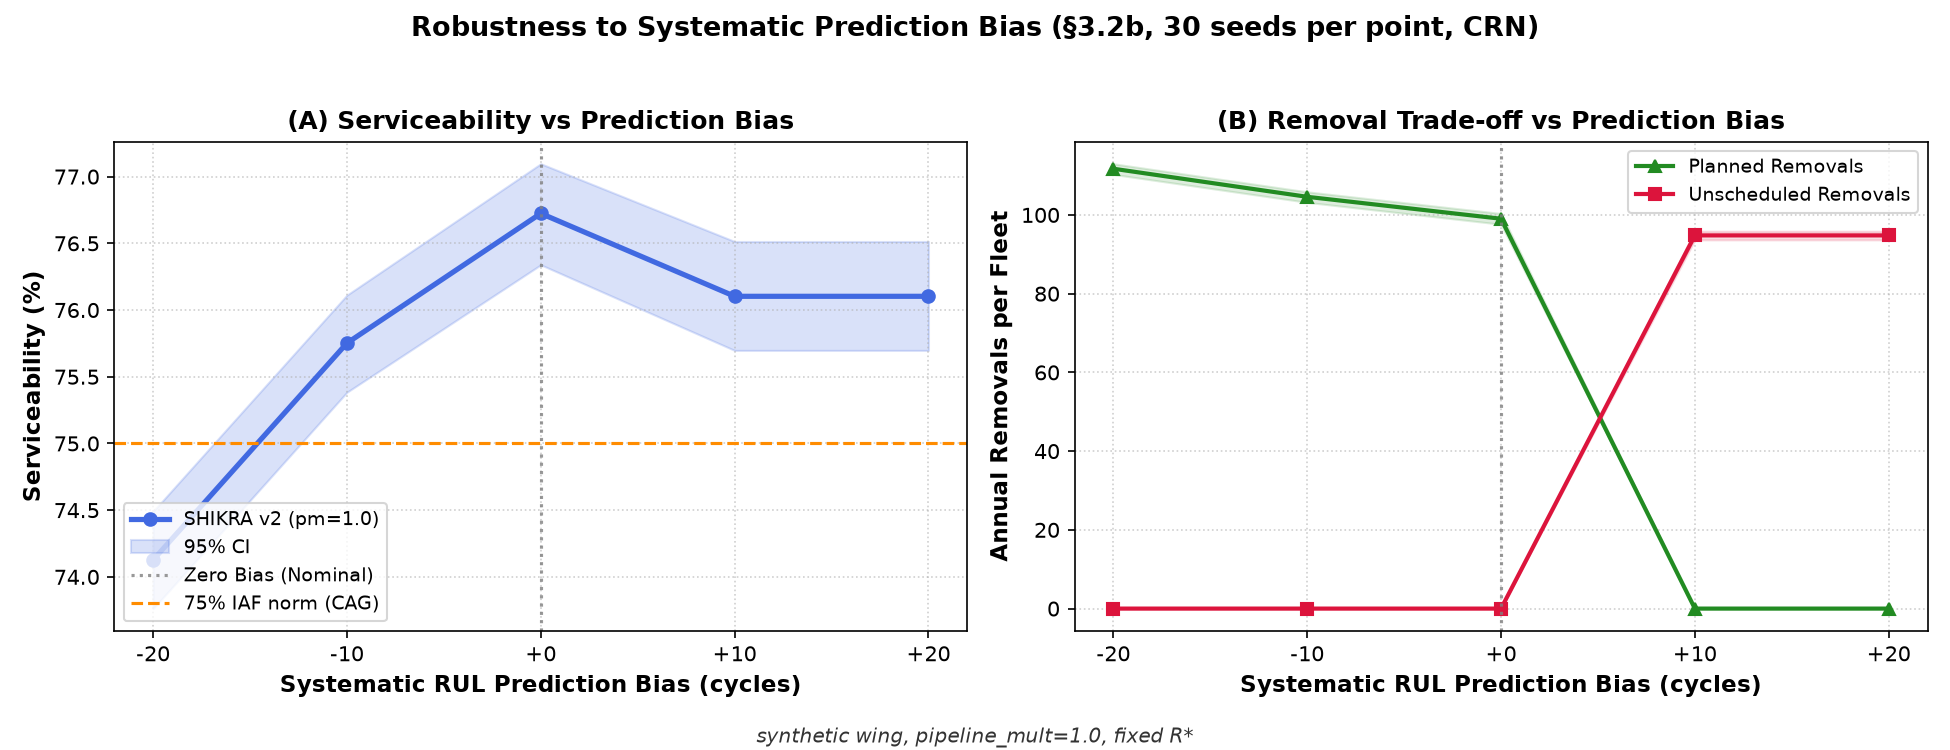
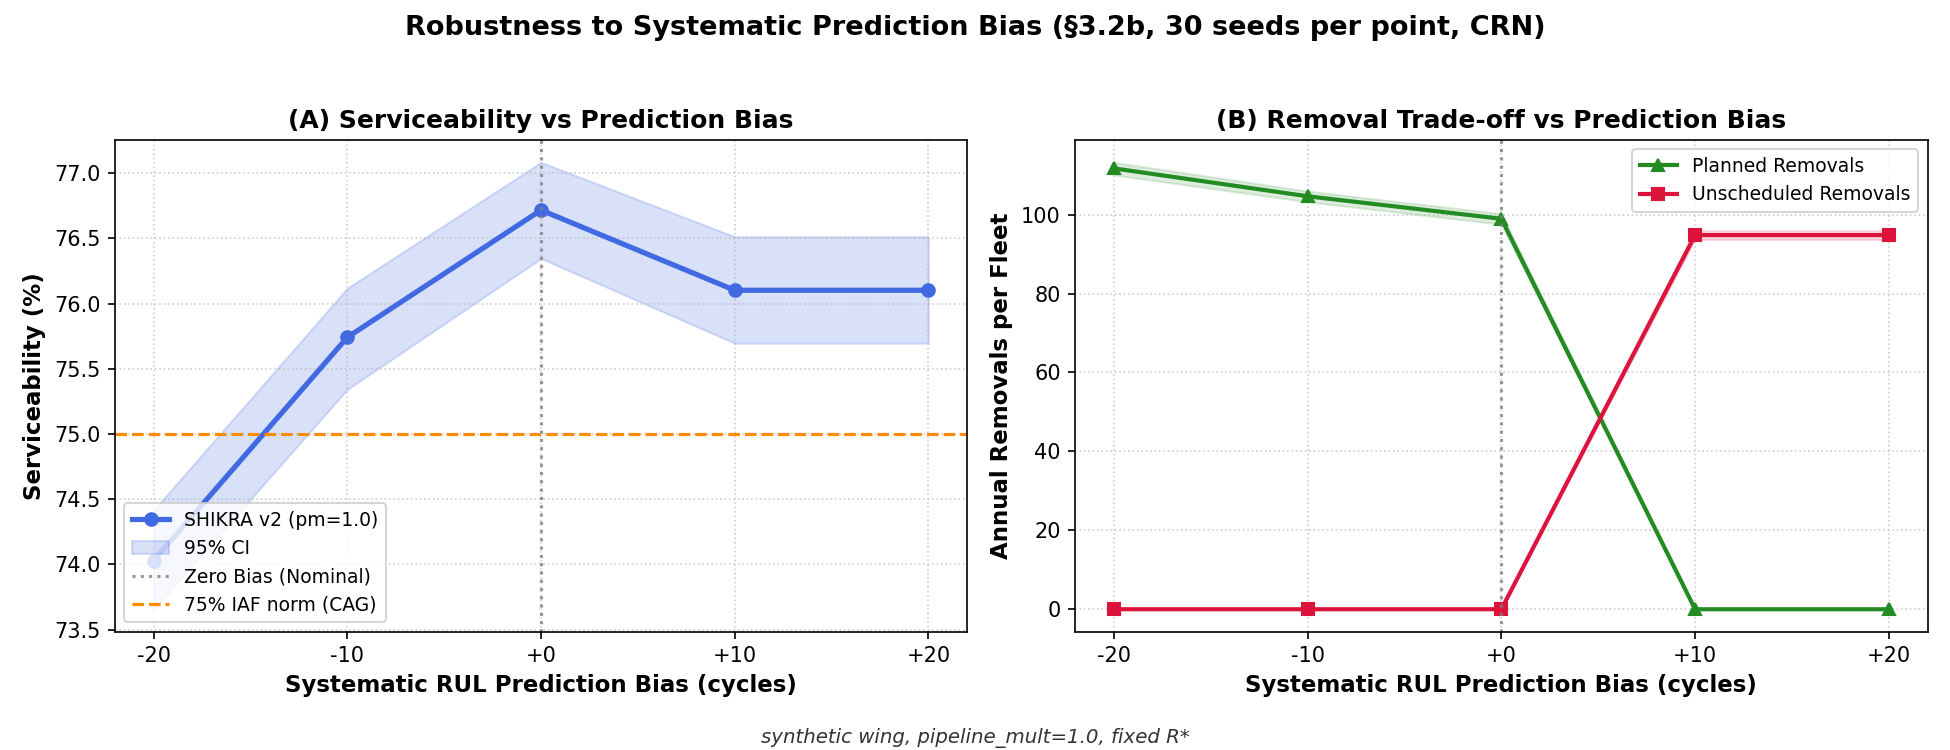
results: regenerate simulation results and documentation from model of record

diff --git a/scripts/cards.py b/scripts/cards.py
@@ -193,6 +193,7 @@ def generate_model_card() -> str:
         "  - The model never accesses `rul_true` during inference, test evaluation, or fleet simulation.",
         f"  - The model is never trained or calibrated on the {n_rep_single} replay engines, which are kept strictly unseen to prevent optimistic bias in simulation.",
         "  - Sensor scaling and cluster centers are fit strictly on training units, with zero leakage from validation, calibration, or test sets.",
+        "- **Model of Record:** model of record re-frozen 17 Oct; previous replay model was not committed and was overwritten by a retrain; all results regenerated from the committed model.",
         "",
     ])
 

diff --git a/MODEL_CARD.md b/MODEL_CARD.md
@@ -57,27 +57,27 @@ Inductive conformal prediction calibrates prediction intervals on held-out calib
 
 | Subset / Split | Nominal Coverage | Calibrated Empirical Coverage | Uncalibrated Empirical Coverage | Mean Interval Width | Sample Size |
 |----------------|------------------|-------------------------------|---------------------------------|---------------------|-------------|
-| FD001 (test) | 80% | 81.0% | 61.0% | 30.94 cycles | 100 |
-| FD001 (test) | 90% | 91.0% | 76.0% | 43.24 cycles | 100 |
-| FD001+FD003 (replay) | 80% | 82.0% | 56.0% | 24.81 cycles | 400 |
-| FD001+FD003 (replay) | 90% | 92.8% | 73.2% | 34.22 cycles | 400 |
-| FD003 (test) | 80% | 79.0% | 57.0% | 30.17 cycles | 100 |
-| FD003 (test) | 90% | 90.0% | 75.0% | 40.79 cycles | 100 |
+| FD001 (test) | 80% | 81.0% | 61.0% | 30.91 cycles | 100 |
+| FD001 (test) | 90% | 90.0% | 76.0% | 42.96 cycles | 100 |
+| FD001+FD003 (replay) | 80% | 81.8% | 56.0% | 24.78 cycles | 400 |
+| FD001+FD003 (replay) | 90% | 92.8% | 73.2% | 33.97 cycles | 400 |
+| FD003 (test) | 80% | 79.0% | 57.0% | 30.14 cycles | 100 |
+| FD003 (test) | 90% | 89.0% | 75.0% | 40.51 cycles | 100 |
 
 ## Known Failure Modes and Robustness Findings
 
 1. **Systematic Prediction Bias Sensitivity (§3.2b):**
-   - **Pessimistic Bias (−10 cycles):** Wastes 1993 cycles of usable engine life across the fleet due to premature removals, while maintaining 0 unscheduled removals.
+   - **Pessimistic Bias (−10 cycles):** Wastes 1978 cycles of usable engine life across the fleet due to premature removals, while maintaining 0 unscheduled removals.
    - **Optimistic Bias (+10 cycles):** Causes severe late removals, raising unscheduled engine removals from 0.0 to 94.8 per fleet-year.
-   - **Zero Bias (Nominal):** Produces 0.0 unscheduled removals with 845 cycles wasted life.
+   - **Zero Bias (Nominal):** Produces 0.0 unscheduled removals with 820 cycles wasted life.
 
 2. **Degraded Prediction Quality (2× Error Impact from Heatmap):**
    - At nominal pipeline speed (`pipeline_mult=1.0`):
      - SHIKRA nominal (quality 1.0): 76.7% serviceability (gain vs reactive: +0.7%).
-     - Poor quality (quality 2.0, 2× error): 55.6% serviceability (loss vs reactive: -20.5%), causing a net availability drop of 21.2 percentage points.
+     - Poor quality (quality 2.0, 2× error): 55.6% serviceability (loss vs reactive: -20.4%), causing a net availability drop of 21.1 percentage points.
    - At wing pipeline speed (`pipeline_mult=1.9`):
-     - SHIKRA nominal (quality 1.0): 60.5% serviceability.
-     - Poor quality (quality 2.0): 40.3% serviceability, causing an availability collapse of 20.3 percentage points due to hangar congestion and erratic queue spikes.
+     - SHIKRA nominal (quality 1.0): 60.6% serviceability.
+     - Poor quality (quality 2.0): 40.5% serviceability, causing an availability collapse of 20.1 percentage points due to hangar congestion and erratic queue spikes.
 
 ## Data Integrity and Leakage Prevention
 
@@ -85,3 +85,4 @@ Inductive conformal prediction calibrates prediction intervals on held-out calib
   - The model never accesses `rul_true` during inference, test evaluation, or fleet simulation.
   - The model is never trained or calibrated on the 40 replay engines, which are kept strictly unseen to prevent optimistic bias in simulation.
   - Sensor scaling and cluster centers are fit strictly on training units, with zero leakage from validation, calibration, or test sets.
+- **Model of Record:** model of record re-frozen 17 Oct; previous replay model was not committed and was overwritten by a retrain; all results regenerated from the committed model.

diff --git a/README.md b/README.md
@@ -36,16 +36,16 @@ Official test sets, last cycle only; RMSE shown against true RUL capped at 125 (
 |--------|---------------|--------|---------------------|
 | Reactive | 60.9% | [60.4%, 61.4%] | 79.6 |
 | Preventive | 51.8% | [51.4%, 52.3%] | 13.5 |
-| Shikra | 60.5% | [59.9%, 61.0%] | 0.0 |
+| Shikra | 60.5% | [59.9%, 61.1%] | 0.0 |
 | Oracle | 60.9% | [60.4%, 61.4%] | 0.0 |
-| Shikra_v2 | 60.5% | [60.0%, 61.1%] | 0.0 |
+| Shikra_v2 | 60.6% | [60.0%, 61.1%] | 0.0 |
 | Oracle_v2 | 60.9% | [60.4%, 61.5%] | 0.0 |
 
-> **Key Finding:** SHIKRA removes all unscheduled engine removals (0 vs 79.6 per year) but, in this wing, serviceability is unchanged (60.5% vs 60.9%), because the engine-spare pipeline, not warning time, is the binding constraint (see A11).
+> **Key Finding:** SHIKRA removes all unscheduled engine removals (0 vs 79.6 per year) but, in this wing, serviceability is unchanged (60.6% vs 60.9%), because the engine-spare pipeline, not warning time, is the binding constraint (see A11).
 
-> **A12 Supply Shock:** A 180-day halt of foreign supply grounds up to 29 extra aircraft of 54 (15.7 pp over the halt); recovery takes 95 days after supply resumes. Ranking: apu_start (13.6 pp), ecs_valve (3.7 pp). Parameters are synthetic; the method is the claim.
+> **A12 Supply Shock:** A 180-day halt of foreign supply grounds up to 29 extra aircraft of 54 (15.7 pp over the halt); recovery takes 100 days after supply resumes. Ranking: apu_start (13.6 pp), ecs_valve (3.7 pp). Parameters are synthetic; the method is the claim.
 
-> **Systematic Bias Robustness (§3.2b):** −10 cycles wastes 1993 cycles; +10 raises unscheduled removals from 0 to 94.8.
+> **Systematic Bias Robustness (§3.2b):** −10 cycles wastes 1978 cycles; +10 raises unscheduled removals from 0 to 94.8.
 
 ---
 

diff --git a/results/GATES.md b/results/GATES.md
@@ -21,13 +21,13 @@
 | preventive | 51.8% |
 | shikra | 60.5% |
 | oracle | 60.9% |
-| shikra_v2 | 60.5% |
+| shikra_v2 | 60.6% |
 | oracle_v2 | 60.9% |
 
 **Gap captured (shikra − reactive) / (oracle − reactive):**
-  mean = -0.594  95% CI [-3.134, 1.479]
+  mean = -0.890  95% CI [-4.621, 1.685]
 
-> **Finding on G0.5 & Serviceability:** SHIKRA removes all unscheduled engine removals (0 vs 79.6 per year) but, in this wing, serviceability is unchanged (60.5% vs 60.9%), because the engine-spare pipeline, not warning time, is the binding constraint (see A11).
+> **Finding on G0.5 & Serviceability:** SHIKRA removes all unscheduled engine removals (0 vs 79.6 per year) but, in this wing, serviceability is unchanged (60.6% vs 60.9%), because the engine-spare pipeline, not warning time, is the binding constraint (see A11).
 >
 > **A12 Supply Shock:** A 180-day halt of foreign supply grounds up to 29 extra aircraft of 54 (15.7 pp over the halt); recovery takes 95 days after supply resumes. Ranking: apu_start (13.6 pp), ecs_valve (3.7 pp). Parameters are synthetic; the method is the claim.
 >

diff --git a/DATA_CARD.md b/DATA_CARD.md
@@ -81,6 +81,7 @@
 
 - **Iteration 1**: Set `pipeline_mult: 1.9` (previously `1.0`). Increases repair turnaround times, depot-to-base transfer times, and LRU procurement lead times by 1.9×, bringing 30-seed reactive serviceability from ~76.1% to 61.6%, satisfying Gate G0.4 (target 55%–65%).
 - **Supply halt repair restart**: In A12 supply shock, held-repair return day set to `return_day = max(day, self.shock_end) + repair_tat`, and shock window bounded by `self.shock_start <= day < self.shock_end` (v1 returned all held repairs on the day the halt lifted, which produced an instant recovery and an overshoot; found in verification).
+- **Model of record re-freeze**: model of record re-frozen 17 Oct; previous replay model was not committed and was overwritten by a retrain; all results regenerated from the committed model.
 
 ### Pre-registered SHIKRA v2 (lead-time-aware pre-positioning)
 
